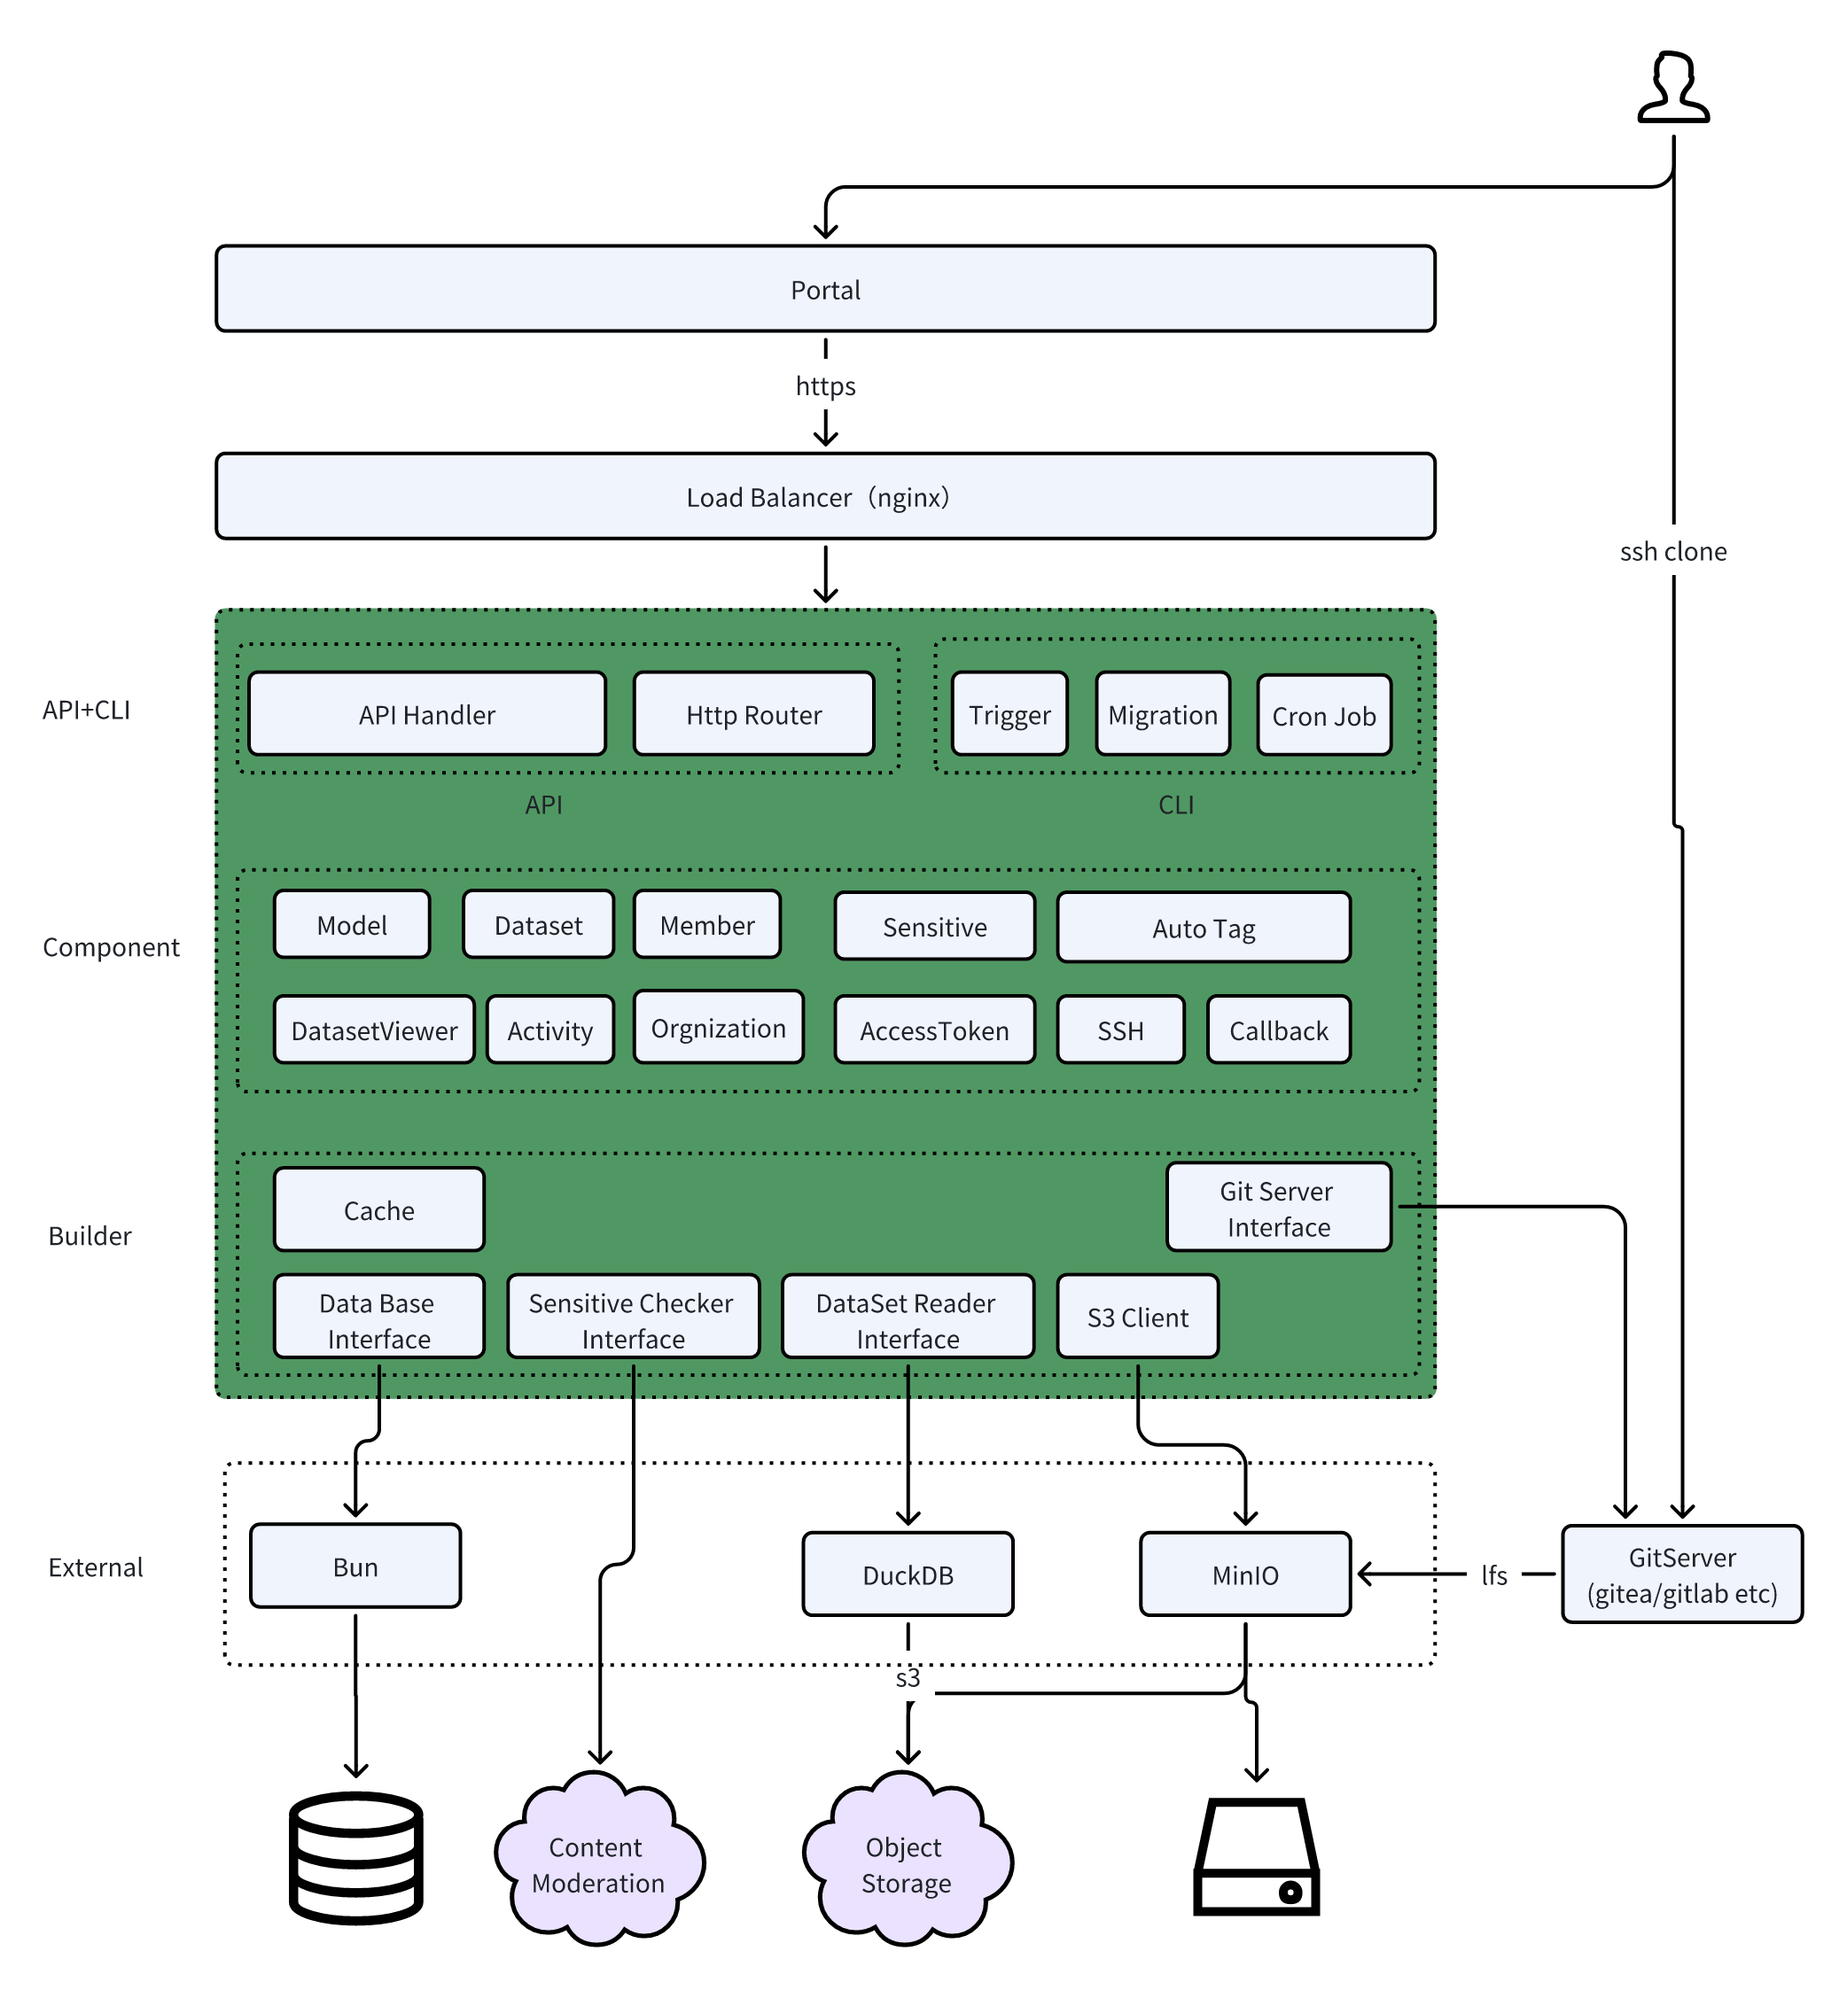
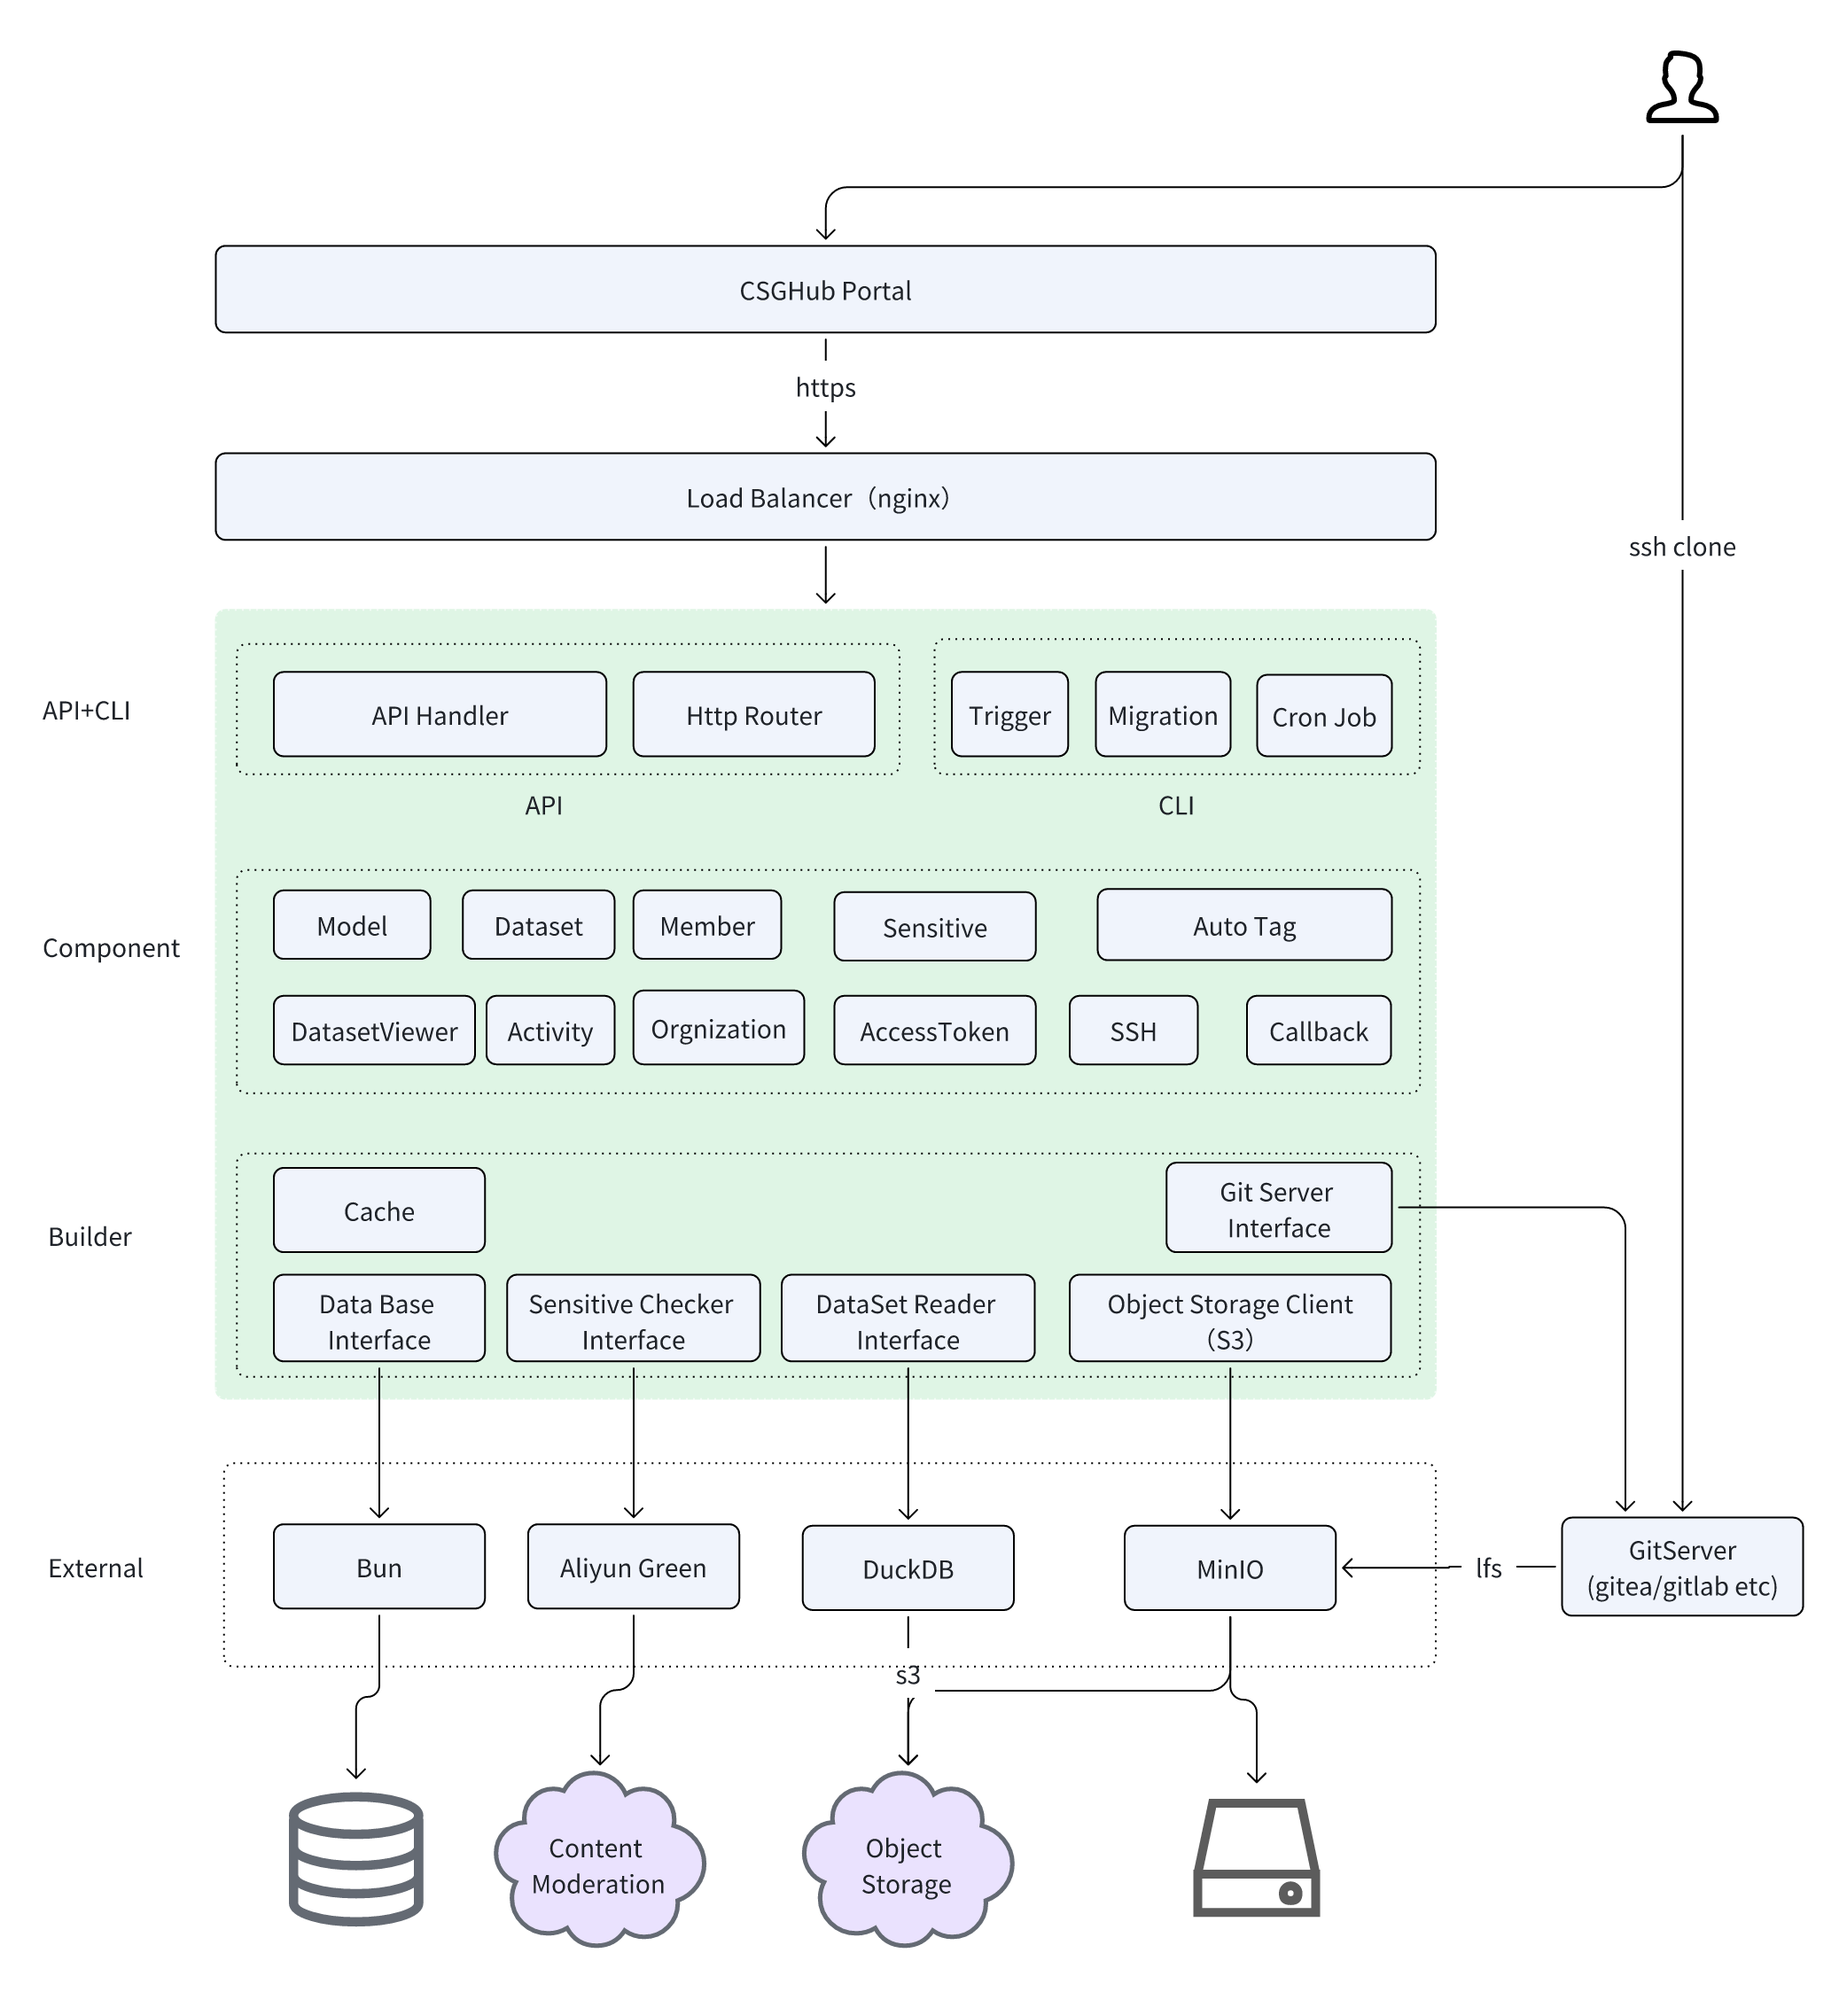
update arch diagram, format readme

diff --git a/README_zh-hans.md b/README_zh-hans.md
@@ -1,23 +1,27 @@
+<<<<<<< Updated upstream
 *[English](README.md) ∙ [简体中文](README_zh-hans.md)*
 
 csghub-server是开源、可信的大模型资产管理平台OpenCSG Hub的服务端部分开源项目，提供基于REST API的模型和数据集管理功能。
+=======
+`CSGHub Server`是开源、可信的大模型资产管理平台`CSGHub`的服务端部分开源项目，提供基于REST API的模型和数据集管理功能。
+>>>>>>> Stashed changes
 
 ## 主要功能：
 - 用户和组织的创建和管理 
 - 模型、数据集托管，支持以https或git协议的方式上传和下载模型、数据集文件
 - 模型、数据集标签的自动生成
 - 用户、组织、模型和数据的搜索
-- 数据集文件在线预览
+- 数据集文件在线预览，目前支持`.parquet`格式文件
 - 文本、图像内容审核
-- 单个文件下载，包括lfs文件下载
+- 单个文件下载，包括LFS文件下载
 - 模型、数据集活跃度数据跟踪，如下载量、Like量等
 
 ## 功能演示
-为了帮助您更直观地了解 StarHub 的功能和使用方法，我们录制了一系列演示视频。您可以通过观看这些视频，快速了解本项目的主要特性和操作流程。
-- StarHub Web功能演示：演示视频
-- StarHub Git操作演示：演示视频
+为了帮助您更直观地了解`CSGHub` 的功能和使用方法，我们录制了一系列演示视频。您可以通过观看这些视频，快速了解本项目的主要特性和操作流程。
+- CSGHub Portal 功能演示：演示视频
+- CSGHub Git 操作演示：演示视频
 
-更完整的功能请移步OpenCSG官网，体验“开发者”模块的强大管理功能。
+更完整的功能请移步[OpenCSG官网](https://portal.opencsg.com/)，体验“开发者”模块的强大管理功能。
 
 ## 快速使用
 系统资源需求: 4c CPU/8GB内存
@@ -30,7 +34,7 @@ docker-compose up -d -f https://github.com/opencsginc/starhub/blob/main/docker/d
 
 ## 技术架构
 <div align=center>
-  <img src="docs/csghub_server-arch.png" alt="csghub-server architecture">
+  <img src="docs/csghub_server-arch.png" alt="csghub-server architecture" width="800px">
 </div>
 
 ### 可扩展可定制
@@ -38,14 +42,14 @@ docker-compose up -d -f https://github.com/opencsginc/starhub/blob/main/docker/d
 - 支持灵活配置LFS存储系统，可选择使用本地或第三方兼容S3协议的任意云存储服务
 - 按需开启内容审核，选择任意第三方内容审核服务
 
-## 技术路线
-- 支持更多Git Server: 目前内置了对gitea的支持，未来计划实现对主流Git仓库的支持。
-- Git LFS: Git LFS支持超大文件， 支持git命令操作和Web UI在线下载。（done）
-- DataSet online viewer: 数据集预览，支持LFS格式数据集的Top20/TopN加载预览。（done）
-- Model/Dataset AutoTag:：支持自定义元数据和自动化提取模型/数据集标签。（done）
-- S3 Protocol Support: 支持S3(MinIO)存储协议，更高的可靠性和存储性价比。（done）
-- Model format convert: 主流模型格式转化。
-- Model oneclick deploy: 支持与OpenCSG llm-inference集成， 一键启动模型推理。
+## 技术规划
+- 支持更多Git Server: 目前内置了对gitea的支持，未来计划实现对主流Git仓库的支持
+- 支持Git LFS: Git LFS支持超大文件， 支持git命令操作和Web UI在线下载
+- 数据集在线预览: 数据集预览，支持LFS格式数据集的Top20/TopN加载预览
+- 模型和数据集自动打标签:：支持自定义元数据和自动化提取模型/数据集标签
+- S3协议兼容: 支持S3(MinIO)存储协议，更高的可靠性和存储性价比
+- 模型格式转换: 主流模型格式转化
+- 模型一键部署: 支持与OpenCSG llm-inference集成， 一键启动模型推理
 
 ## License
 我们使用Apache 2.0协议，协议内容详见`LICENSE`文件。
@@ -59,5 +63,5 @@ docker-compose up -d -f https://github.com/opencsginc/starhub/blob/main/docker/d
 ## 联系我们
 使用过程中的任何问题， 您可以在github 发起issue或者加入我们的微信讨论群.
 <div align=center>
-  <img src="docs/wechat_group.jpg" alt="wechat group">
+  <img src="docs/wechat_group.jpg" alt="wechat group" width="500px">
 </div>

diff --git a/README.md b/README.md
@@ -1,6 +1,10 @@
+<<<<<<< Updated upstream
 *[English](README.md) ∙ [简体中文](README_zh-hans.md)*
 
 `csghub-server` is a part of the open source and reliable large model assets management platform - `OpenCSG Hub`. It focus on management of models and datasets through REST API。
+=======
+`CSGHub Server` is a part of the open source and reliable large model assets management platform - `CSGHub`. It focus on management of models and datasets through REST API。
+>>>>>>> Stashed changes
 
 ## Key Features：
 - Creation and Management of users and orgnizations
@@ -12,7 +16,7 @@
 - Tracking of model and dataset activity data, such as downloads and likes volume
 
 ## Demo
-To help you better understand the features and usage of `csghub-server`, we have recorded a series of demonstration videos. These videos will quickly introduce you to the main features and operating steps of the project.
+To help you better understand the features and usage of `CSGHub Server`, we have recorded a series of demonstration videos. These videos will quickly introduce you to the main features and operating steps of the project.
 
 - Web GUI features demo: Demo Video
 - Git operations demo: Demo Video
@@ -24,14 +28,14 @@ Please visit the [OpenCSG website](https://portal.opencsg.com/) to experience th
 
 Please install Docker yourself. This project has been tested in Ubuntu22 environment.
 
-You can quickly deploy the localized `csghub-server` service through docker-compose:
+You can quickly deploy the localized `CSGHub Server` service through docker-compose:
 ```
 docker-compose up -d -f https://github.com/opencsginc/starhub/blob/main/docker/docker-compose.yaml
 ```
 
 ## Technical Architecture
 <div align=center>
-  <img src="docs/csghub_server-arch.png" alt="csghub-server architecture">
+  <img src="docs/csghub_server-arch.png" alt="csghub-server architecture" width="800px">
 </div>
 
 ### Extensible and customizable
